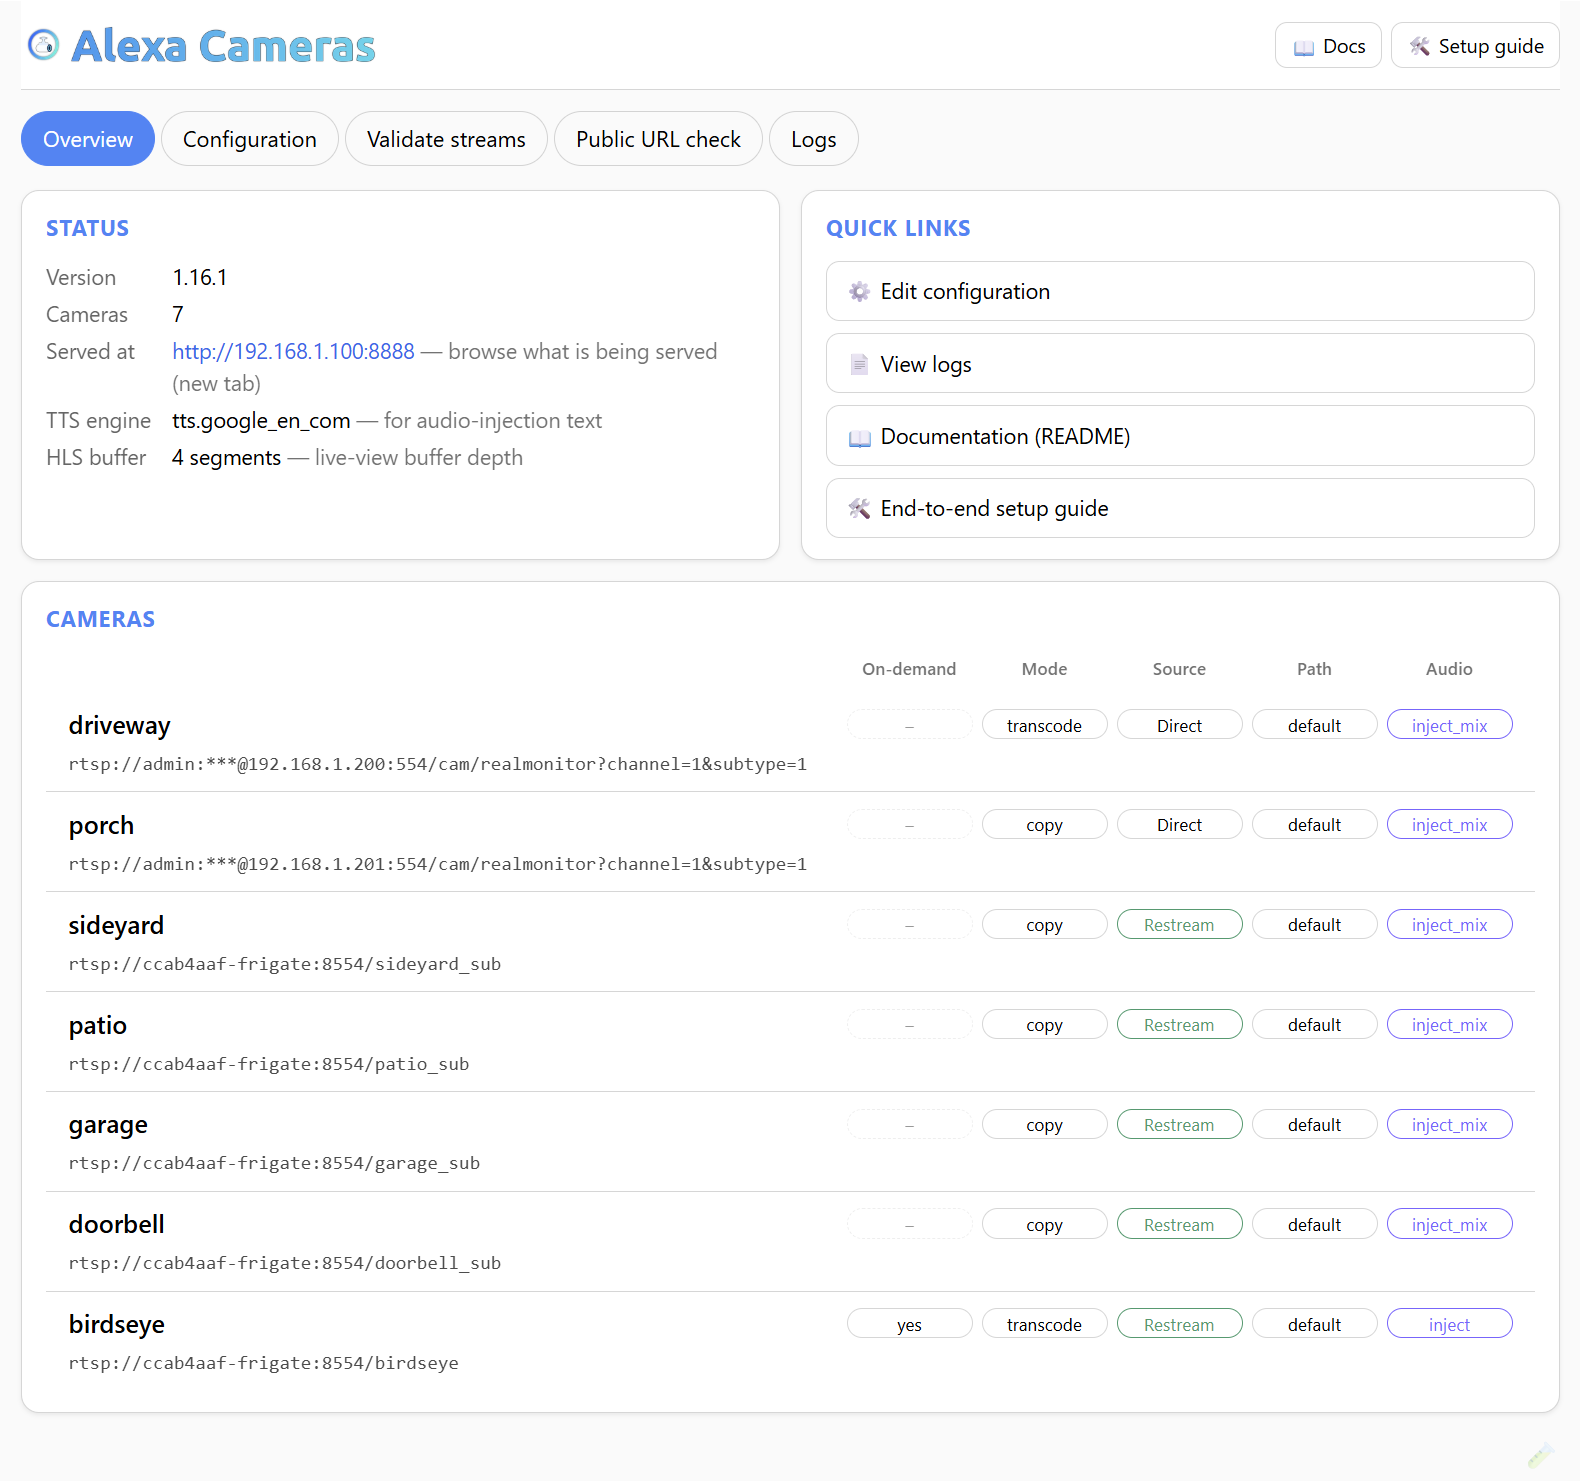
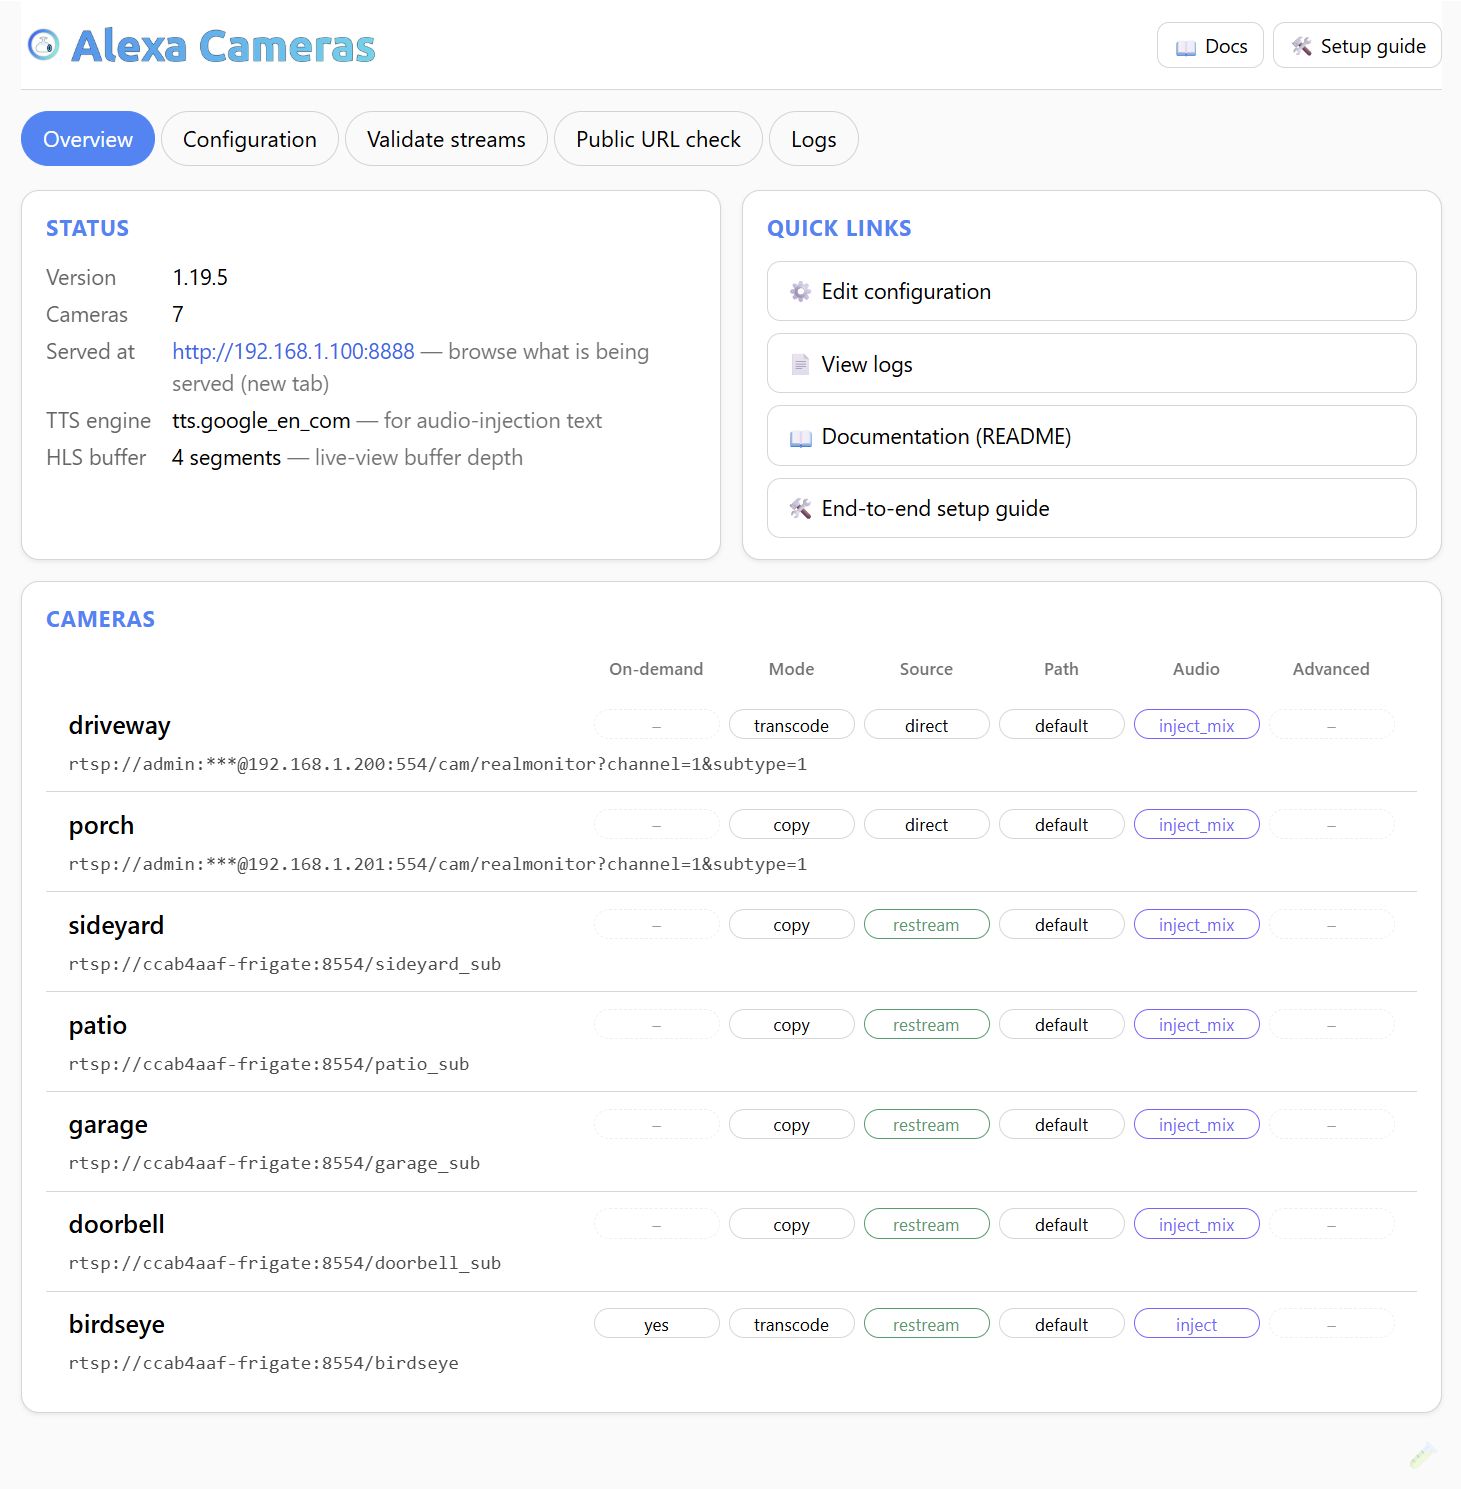
Refresh screenshots to current UI + add Edit-dialog shots (v1.19.7)
- overview.png / configuration.png reshot to match the current UI (Advanced
  column on Overview; the read-only camera summary + Edit/Delete rows on
  Configuration, replacing the stale inline-table caption).
- New edit-cam-transcode.png / edit-cam-copy.png showing the per-camera Edit
  dialog; documented that the Advanced section adapts to Mode (transcode gets
  the full streaming overrides, copy shows only the HLS buffer).
- Docs-only.

diff --git a/alexa_cameras/DOCS.md b/alexa_cameras/DOCS.md
@@ -69,7 +69,7 @@ changes** marker appears by the **Save & apply** button (at the bottom of the fo
 with unsaved edits prompts first, so a half-finished change is never silently lost. Nothing takes
 effect until you **Save & apply**.
 
-![The Configuration tab — set the Home Assistant IP (a private IPv4, not a hostname) and add your cameras. Each camera row takes a Host (direct) or a URL override (e.g. a go2rtc/Frigate restream — Host greys out when a URL is set), plus Mode, an Audio column (none / inject / inject_mix), and an On-demand checkbox; the Audio injection panel below the table holds the control-API token and default TTS engine](https://raw.githubusercontent.com/Hu1kSmash/ha-alexa-cameras/main/docs/images/configuration.png)
+![The Configuration tab — set the RTSP defaults and the Home Assistant IP (a private IPv4, not a hostname), then manage cameras as a read-only summary (each row shows its source / mode / audio / always-on-or-on-demand pills, with Edit and Delete buttons and + Add camera). Below sit the Audio injection panel (control-API token + default TTS engine) and Streaming (advanced) with the global transcode defaults; the Save & apply / View as YAML / Discard changes buttons and a saved/unsaved indicator are at the bottom](https://raw.githubusercontent.com/Hu1kSmash/ha-alexa-cameras/main/docs/images/configuration.png)
 
 ---
 
@@ -124,6 +124,19 @@ for `transcode` cameras — resolution, scale mode, frame rate, bitrate) and an 
 **announcement voice**. Each override field is blank by default and **inherits the global default**
 ([Streaming (advanced)](#streaming-advanced) for streaming, the **Audio injection** panel's TTS engine
 for the voice) unless you set it. No YAML required, though **View as YAML** remains for bulk edits.
+
+The **Advanced** section adapts to the camera's **Mode**: a `transcode` camera exposes the full set of
+streaming overrides (HLS buffer, resolution, scale mode, frame rate, bitrate), while a `copy` camera —
+which keeps its source resolution/fps/bitrate untouched — shows only **HLS buffer segments**, since the
+rest wouldn't apply.
+
+<p align="center">
+  <img src="https://raw.githubusercontent.com/Hu1kSmash/ha-alexa-cameras/main/docs/images/edit-cam-transcode.png" alt="The Edit camera dialog for a transcode camera — Name, a Direct-camera-IP / Full-RTSP-URL Source toggle, Host, Path override, Mode, Audio, Announcement voice, an On-demand checkbox, and an Advanced section exposing HLS buffer segments, Resolution, Scale mode, Frame rate, and Bitrate cap (each defaulting to 'use global default')" width="49%">
+  <img src="https://raw.githubusercontent.com/Hu1kSmash/ha-alexa-cameras/main/docs/images/edit-cam-copy.png" alt="The Edit camera dialog for a copy camera — the same fields, but the Advanced section shows only HLS buffer segments because resolution / scale mode / frame rate / bitrate only apply to transcoded cameras" width="49%">
+</p>
+
+*The Edit dialog for a `transcode` camera (left) vs a `copy` camera (right): the copy camera's Advanced
+section collapses to just the HLS buffer, since the encode settings don't apply to a remux.*
 
 | Field | Required | Description |
 |---|---|---|

diff --git a/alexa_cameras/CHANGELOG.md b/alexa_cameras/CHANGELOG.md
@@ -1,5 +1,13 @@
 # Changelog
 
+## 1.19.7
+
+- **Refreshed screenshots** to the current UI: **Overview** (with the Advanced column) and
+  **Configuration** (the read-only camera summary + Edit/Delete rows, no longer the old inline table).
+  Added two new shots of the per-camera **Edit** dialog — a `transcode` camera (full Advanced
+  overrides) beside a `copy` camera (Advanced collapses to just the HLS buffer) — and documented that
+  the Advanced section adapts to the camera's Mode. Docs-only.
+
 ## 1.19.6
 
 - **Documentation refresh** to match the recent UI and logging work (no functional change):